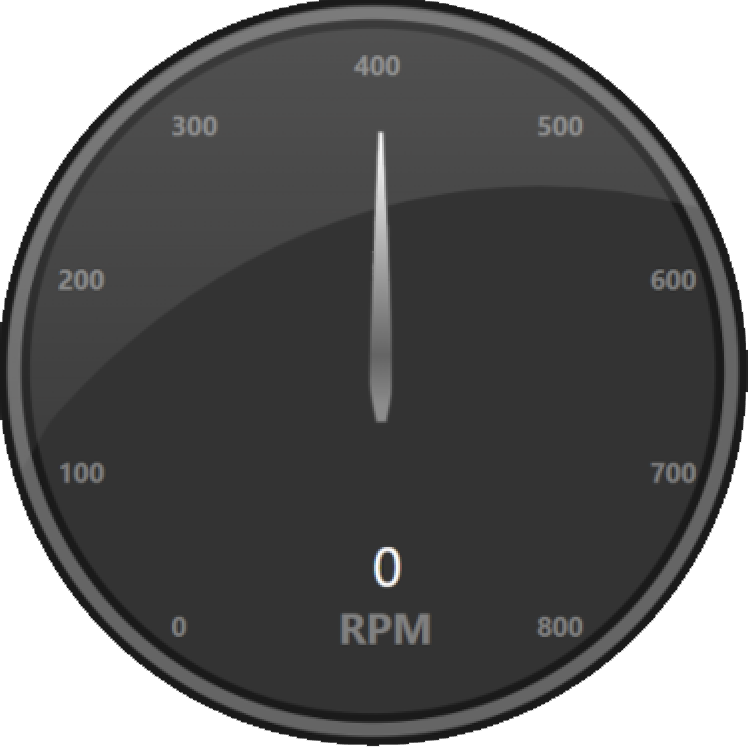
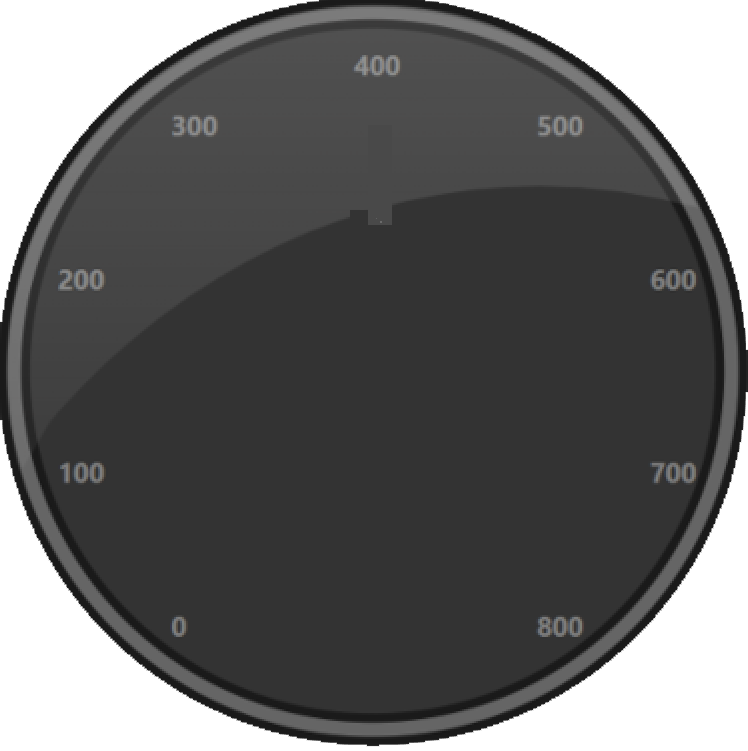
Add RPM Gauge background image

Changed region(s): [[0.4305, 0.7044, 0.5842, 0.8575], [0.492, 0.1838, 0.5227, 0.5819]]

diff --git a/src/components/MotorRPMGauge.css b/src/components/MotorRPMGauge.css
@@ -13,32 +13,42 @@
   height: 100%;
 }
 
-.gauge-background {
+
+.gauge-background-rpm {
   width: 100%;
   height: 100%;
   border-radius: 50%;
-  border: 5px solid #ccc;
+  border: 0px solid #ccc;
   display: flex;
   justify-content: center;
   align-items: bottom;
   position: relative;
+  background-image: url('rpm.png');
+  background-size: contain;
+  background-position: center;
+  background-repeat: no-repeat;
 }
 
 .gauge-needle {
   position: absolute;
   width: 5px;
-  height: 90px;
-  background: rgb(16, 171, 86);
+  height: 80px;
+  
   top: 50%;
   left: 50%;
   transform-origin: top center;
   transform: translate(-50%, -100%);
+  background-image: url('needle.png');
+  background-size: cover;
+  background-position: center;
+  background-repeat: no-repeat;
+  transform: scaleX(-1);
 }
 
 .rpm-value{
   display: flexbox;
   flex-direction: column;
-  margin-top: 100px;
+  margin-top: 150px;
   font-size: 16px;
   color: #fff;
   font-weight: bold;

diff --git a/src/components/MotorRPMGauge.js b/src/components/MotorRPMGauge.js
@@ -9,14 +9,14 @@ const MotorRPMGauge = ({ rpmValue }) => {
   
   const { rotation } = useSpring({
     from: { rotation:  0 },
-    to: { rotation: rpmValue * 0.32 + 45 }, // Assuming rpmValue ranges from 0 to 800
+    to: { rotation: rpmValue * 0.36 + 36 }, // Assuming rpmValue ranges from 0 to 800
     config: { tension: 180, friction: 12 },
   });
 
   return (
     <div className="motor-rpm-gauge">
       <div className="gauge">
-        <div className="gauge-background">
+        <div className="gauge-background-rpm">
           <animated.div
             className="gauge-needle"
             style={{
@@ -24,7 +24,7 @@ const MotorRPMGauge = ({ rpmValue }) => {
             }}
           />
           <div className="rpm-value">
-          <p>{rpmValue}</p>
+          <div>{rpmValue}</div>
           <div className='rpm-unit'> RPM </div>
           </div>
           

diff --git a/src/components/PowerGauge.css b/src/components/PowerGauge.css
@@ -27,10 +27,11 @@
     position: absolute;
     width: 5px;
     height: 90px;
-    background: red;
+   
     top: 50%;
     left: 50%;
-    transform-origin: bottom center;
+    transform-origin: top center;
+    transform: flip(180deg);
   }
   
   p {
